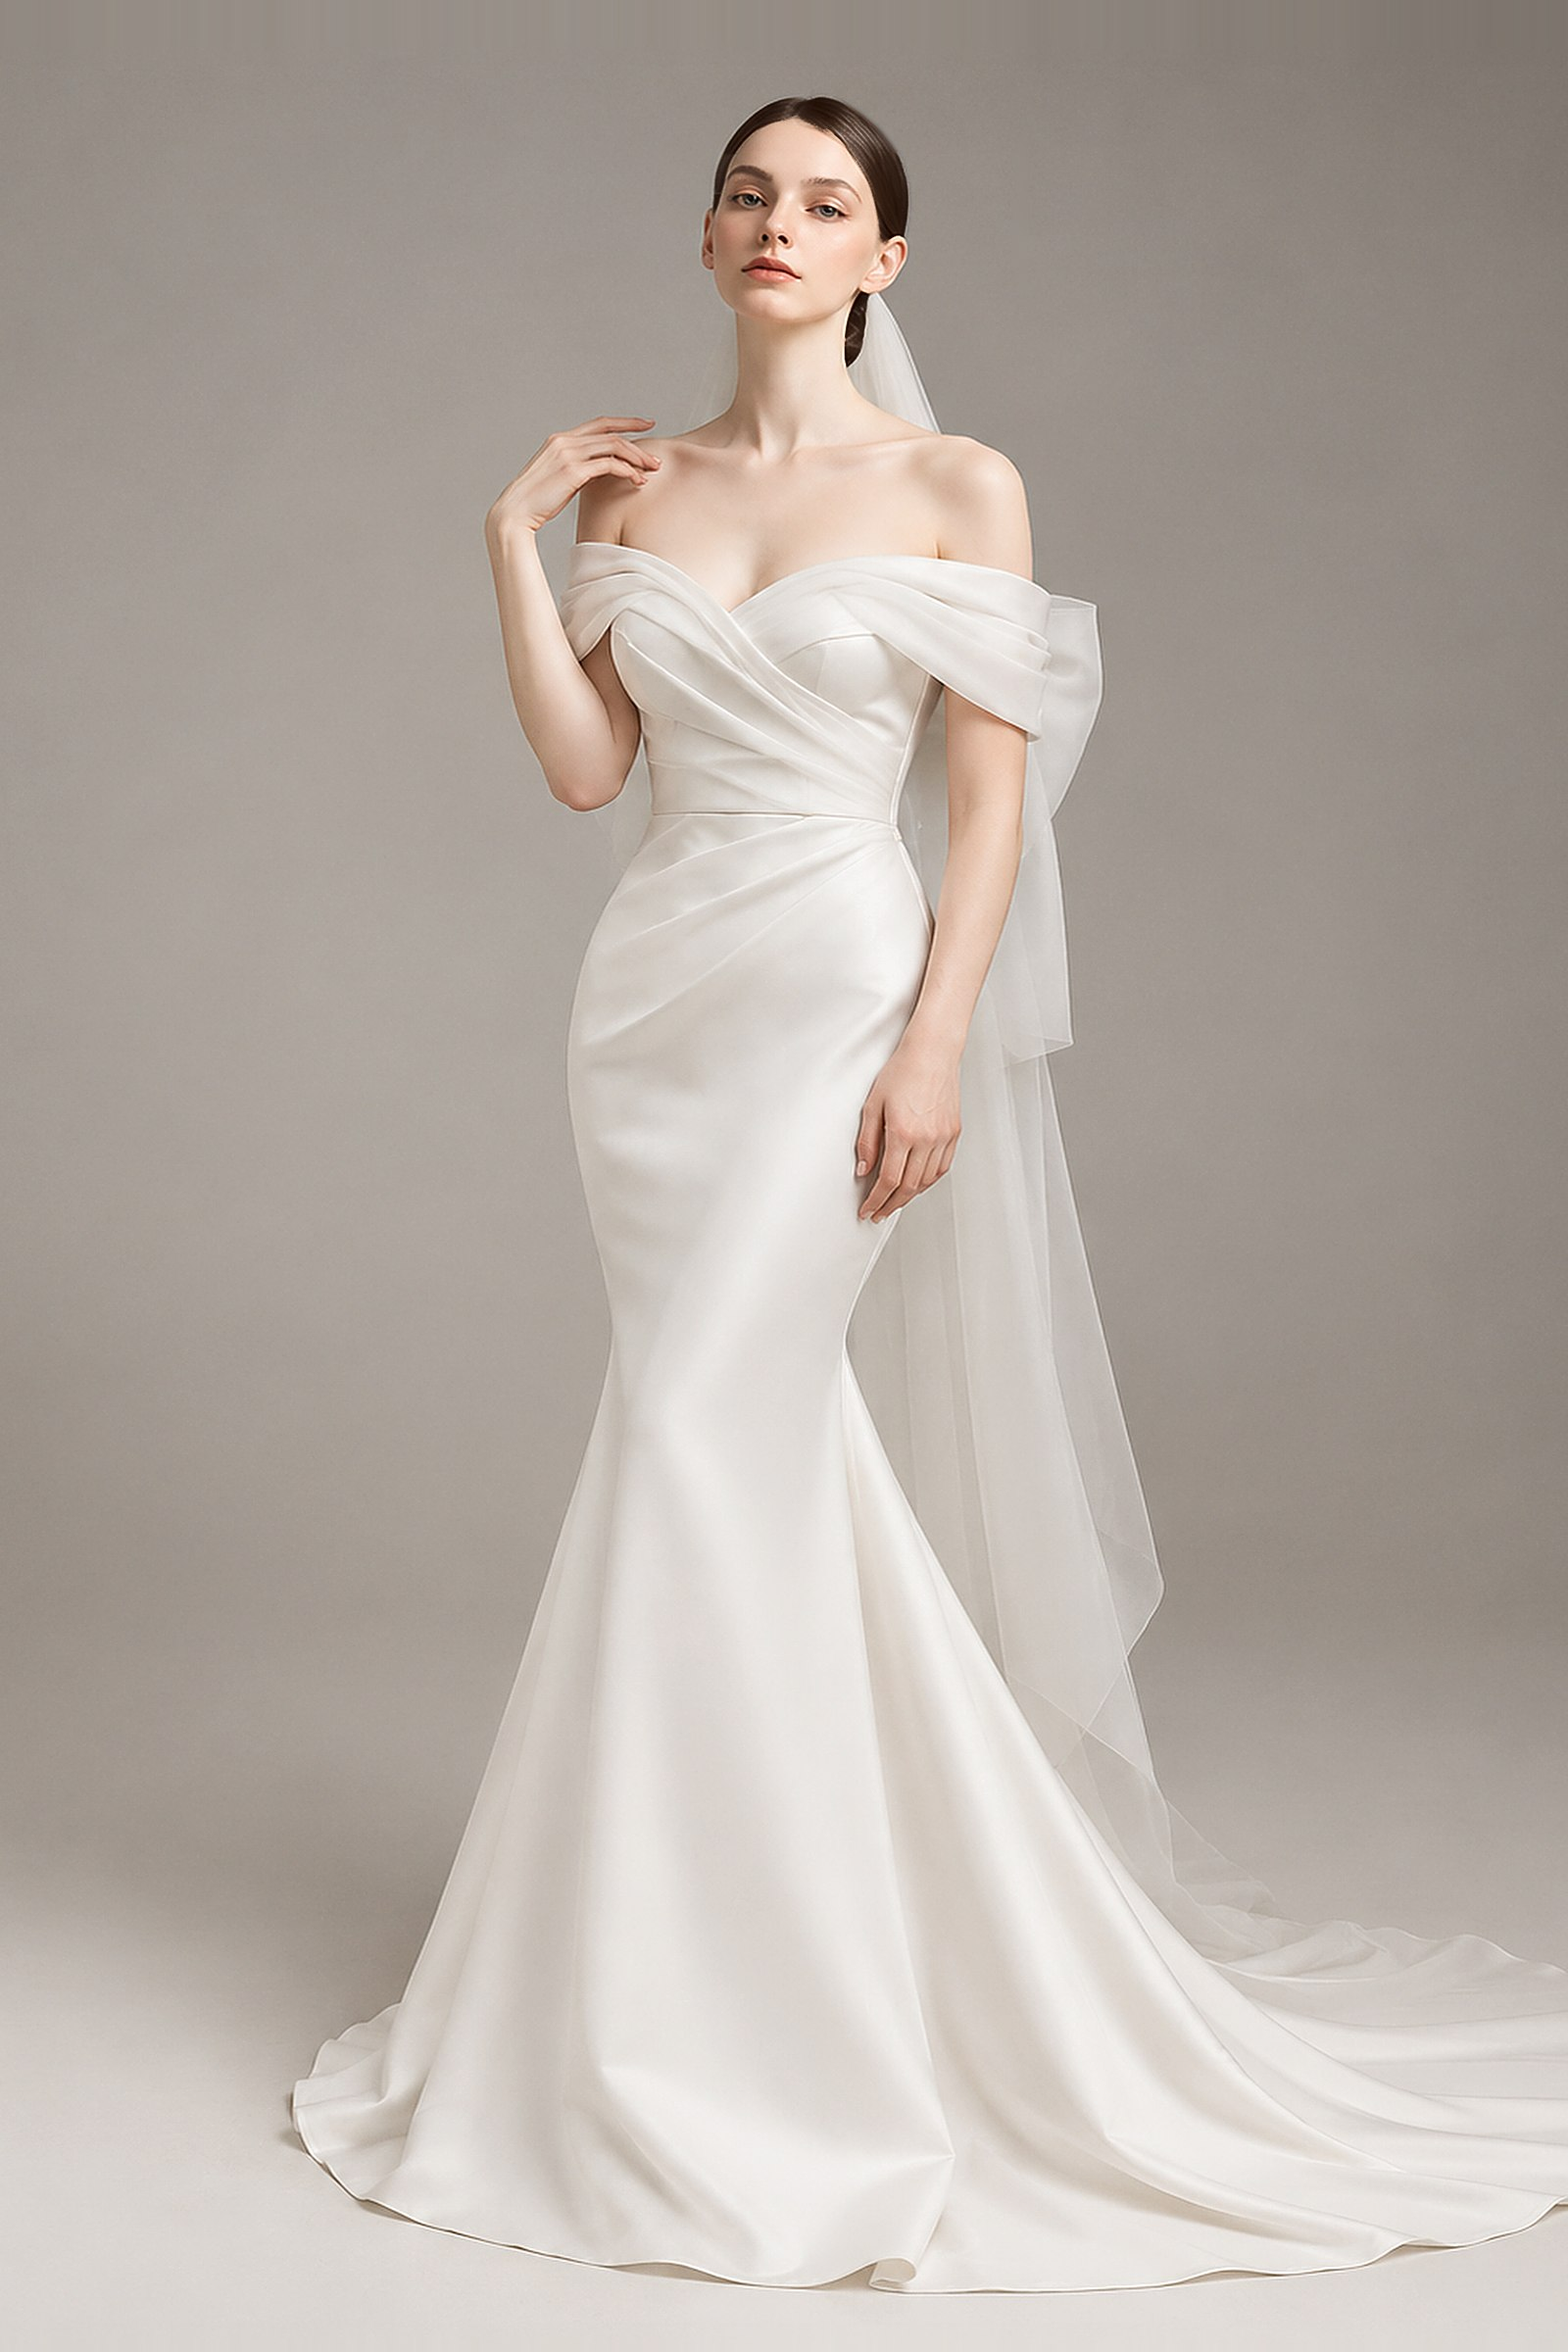
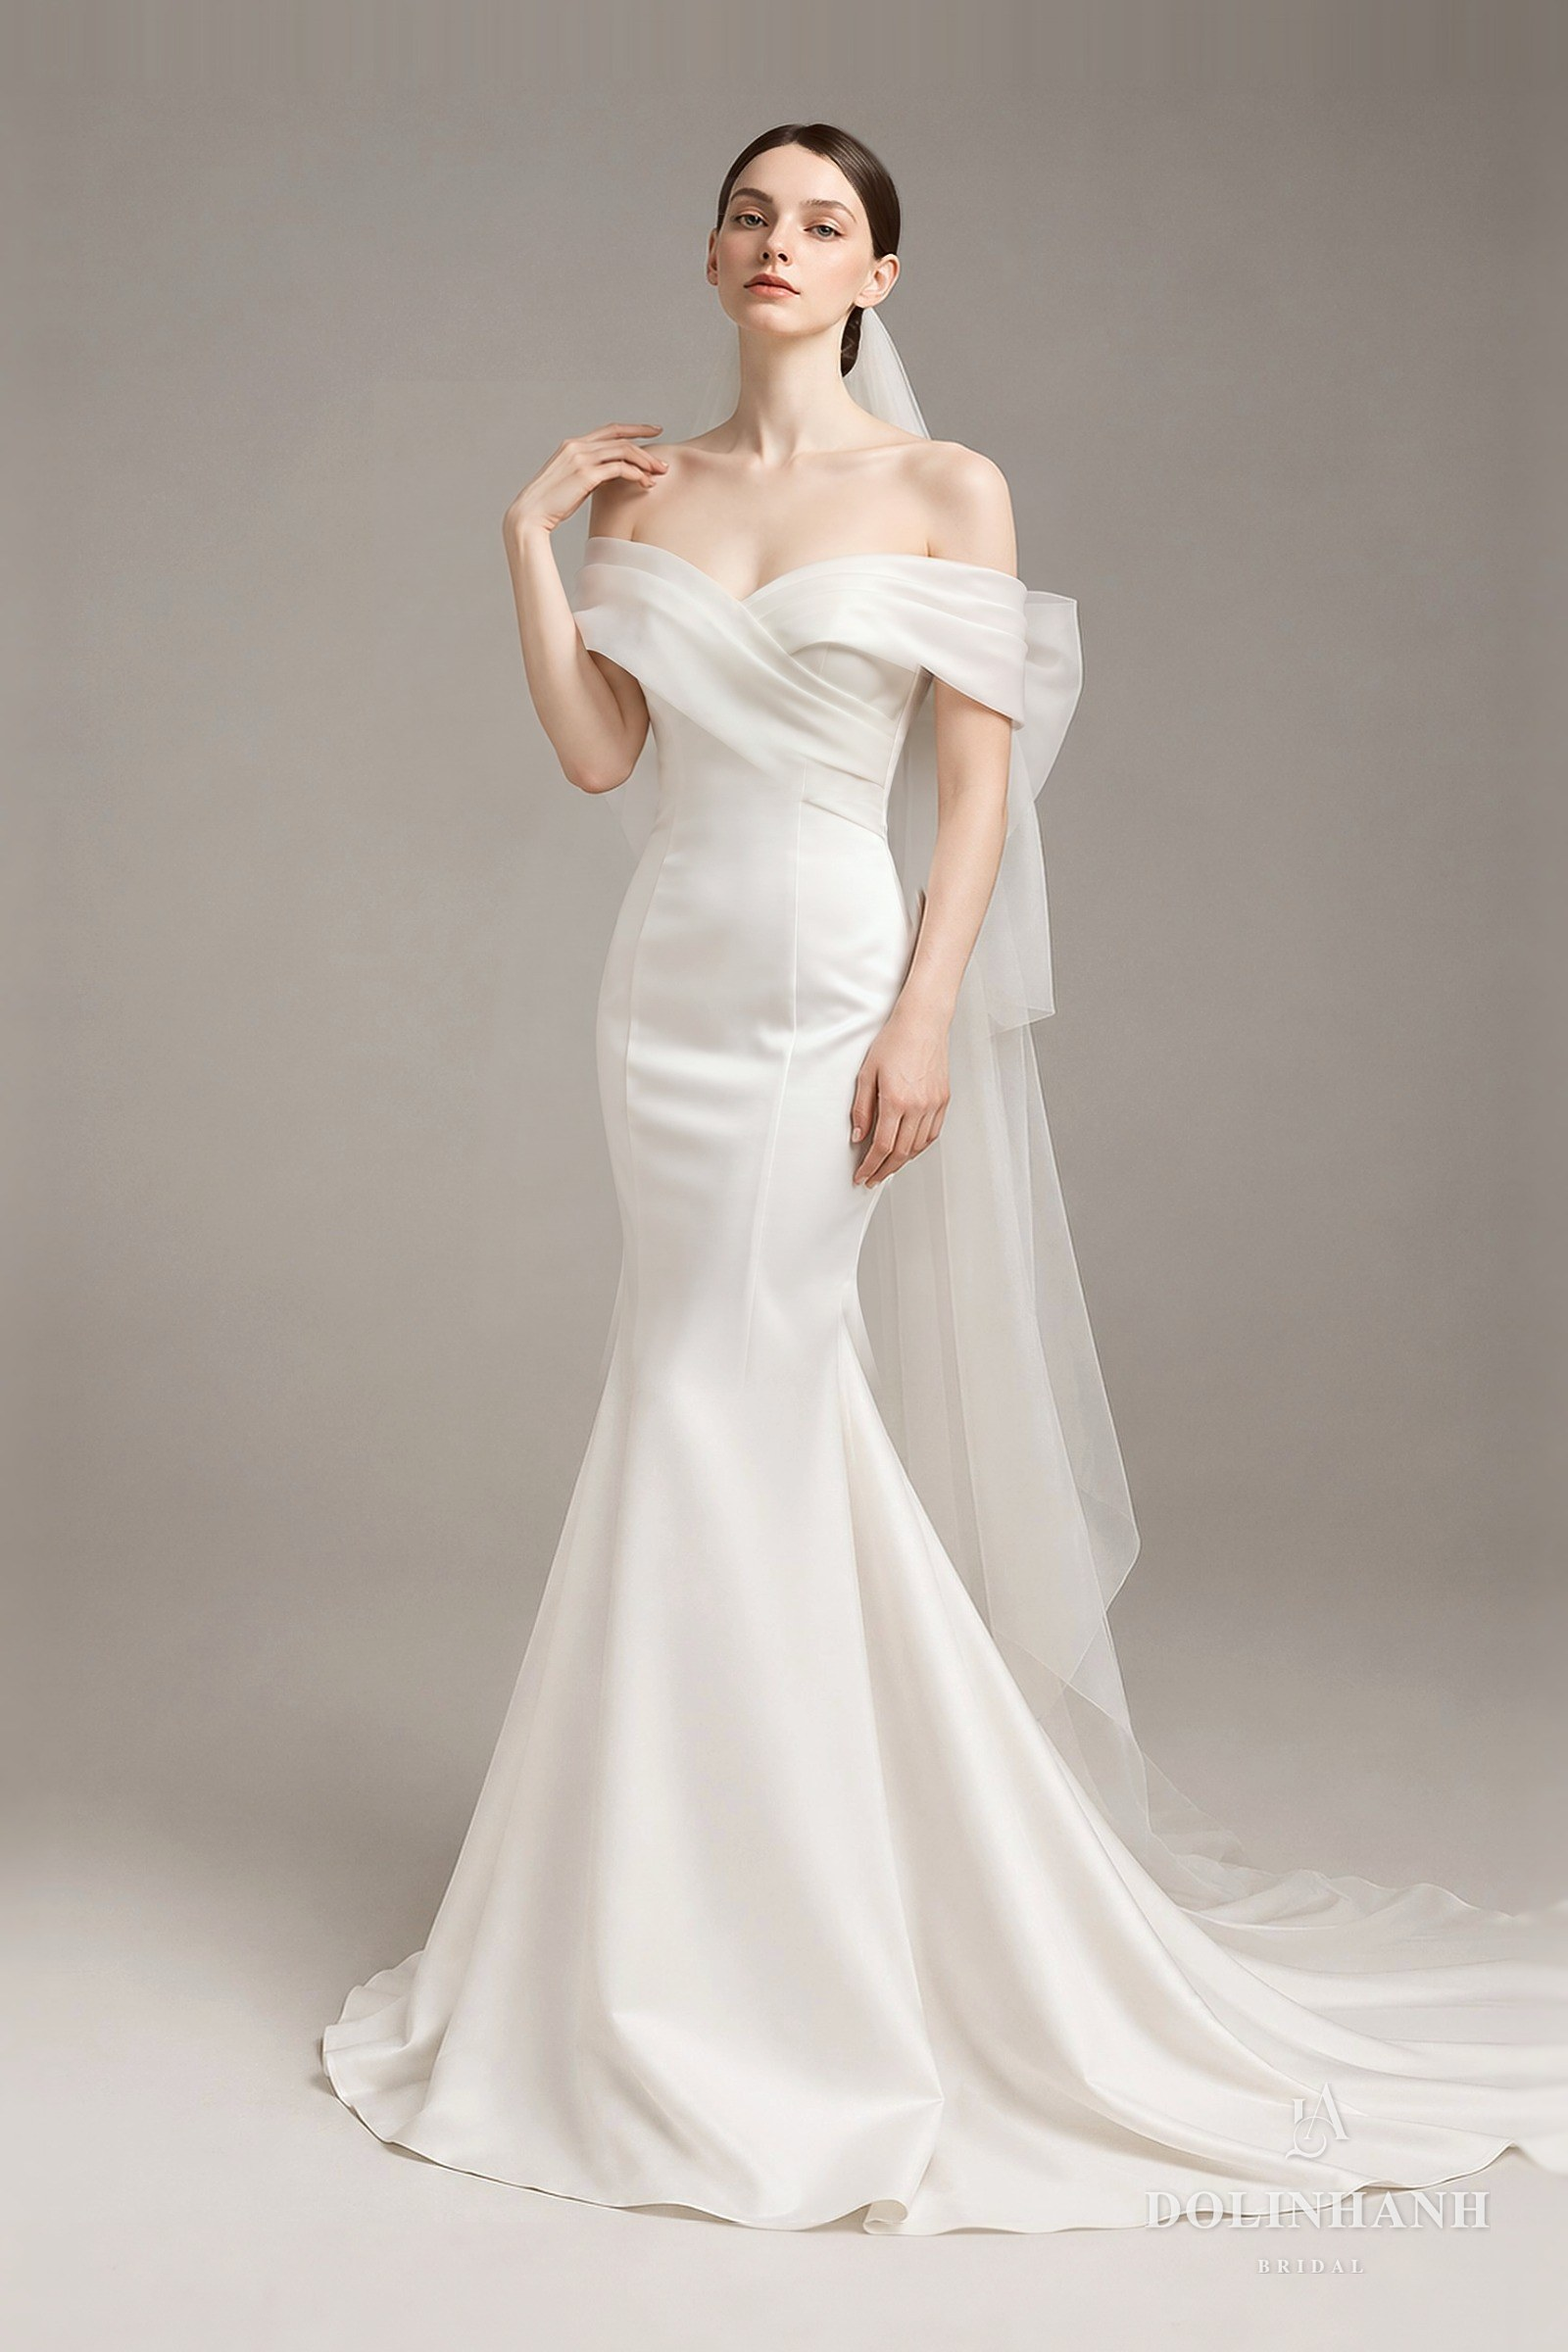
V211: MS 117: smooth satin waist, single organza fold, figure scaled to Canva original

diff --git a/bo-suu-tap.html b/bo-suu-tap.html
@@ -1420,7 +1420,7 @@ src="https://www.facebook.com/tr?id=1358640082651240&ev=PageView&noscript=1"
         </figure>
         <figure data-dang="mermaid" data-mood="minimal" data-coso="hcm" data-sale="1">
           <div class="sl-khung">
-            <div class="sl" data-img="anh/vay/ms117/01.jpg"></div>
+            <div class="sl" data-img="anh/vay/ms117/01.jpg?v=0511"></div>
           </div>
           <div class="ss-ghim"><span class="ss-nhan"><i data-en="Sample" data-zh="样品">Sample</i><b data-en="Sale" data-zh="特卖">Sale</b></span></div>
           <figcaption><span class="kind" data-en="Dolinhanh Bridal" data-zh="Dolinhanh Bridal">Dolinhanh Bridal</span><span class="nm">MS 117</span><span class="de" data-en="Off-shoulder satin, soft mermaid" data-zh="一字肩缎面，微鱼尾">Satin trễ vai, đuôi cá mềm</span><span class="gia" data-goc="US$880">US$440</span></figcaption>
